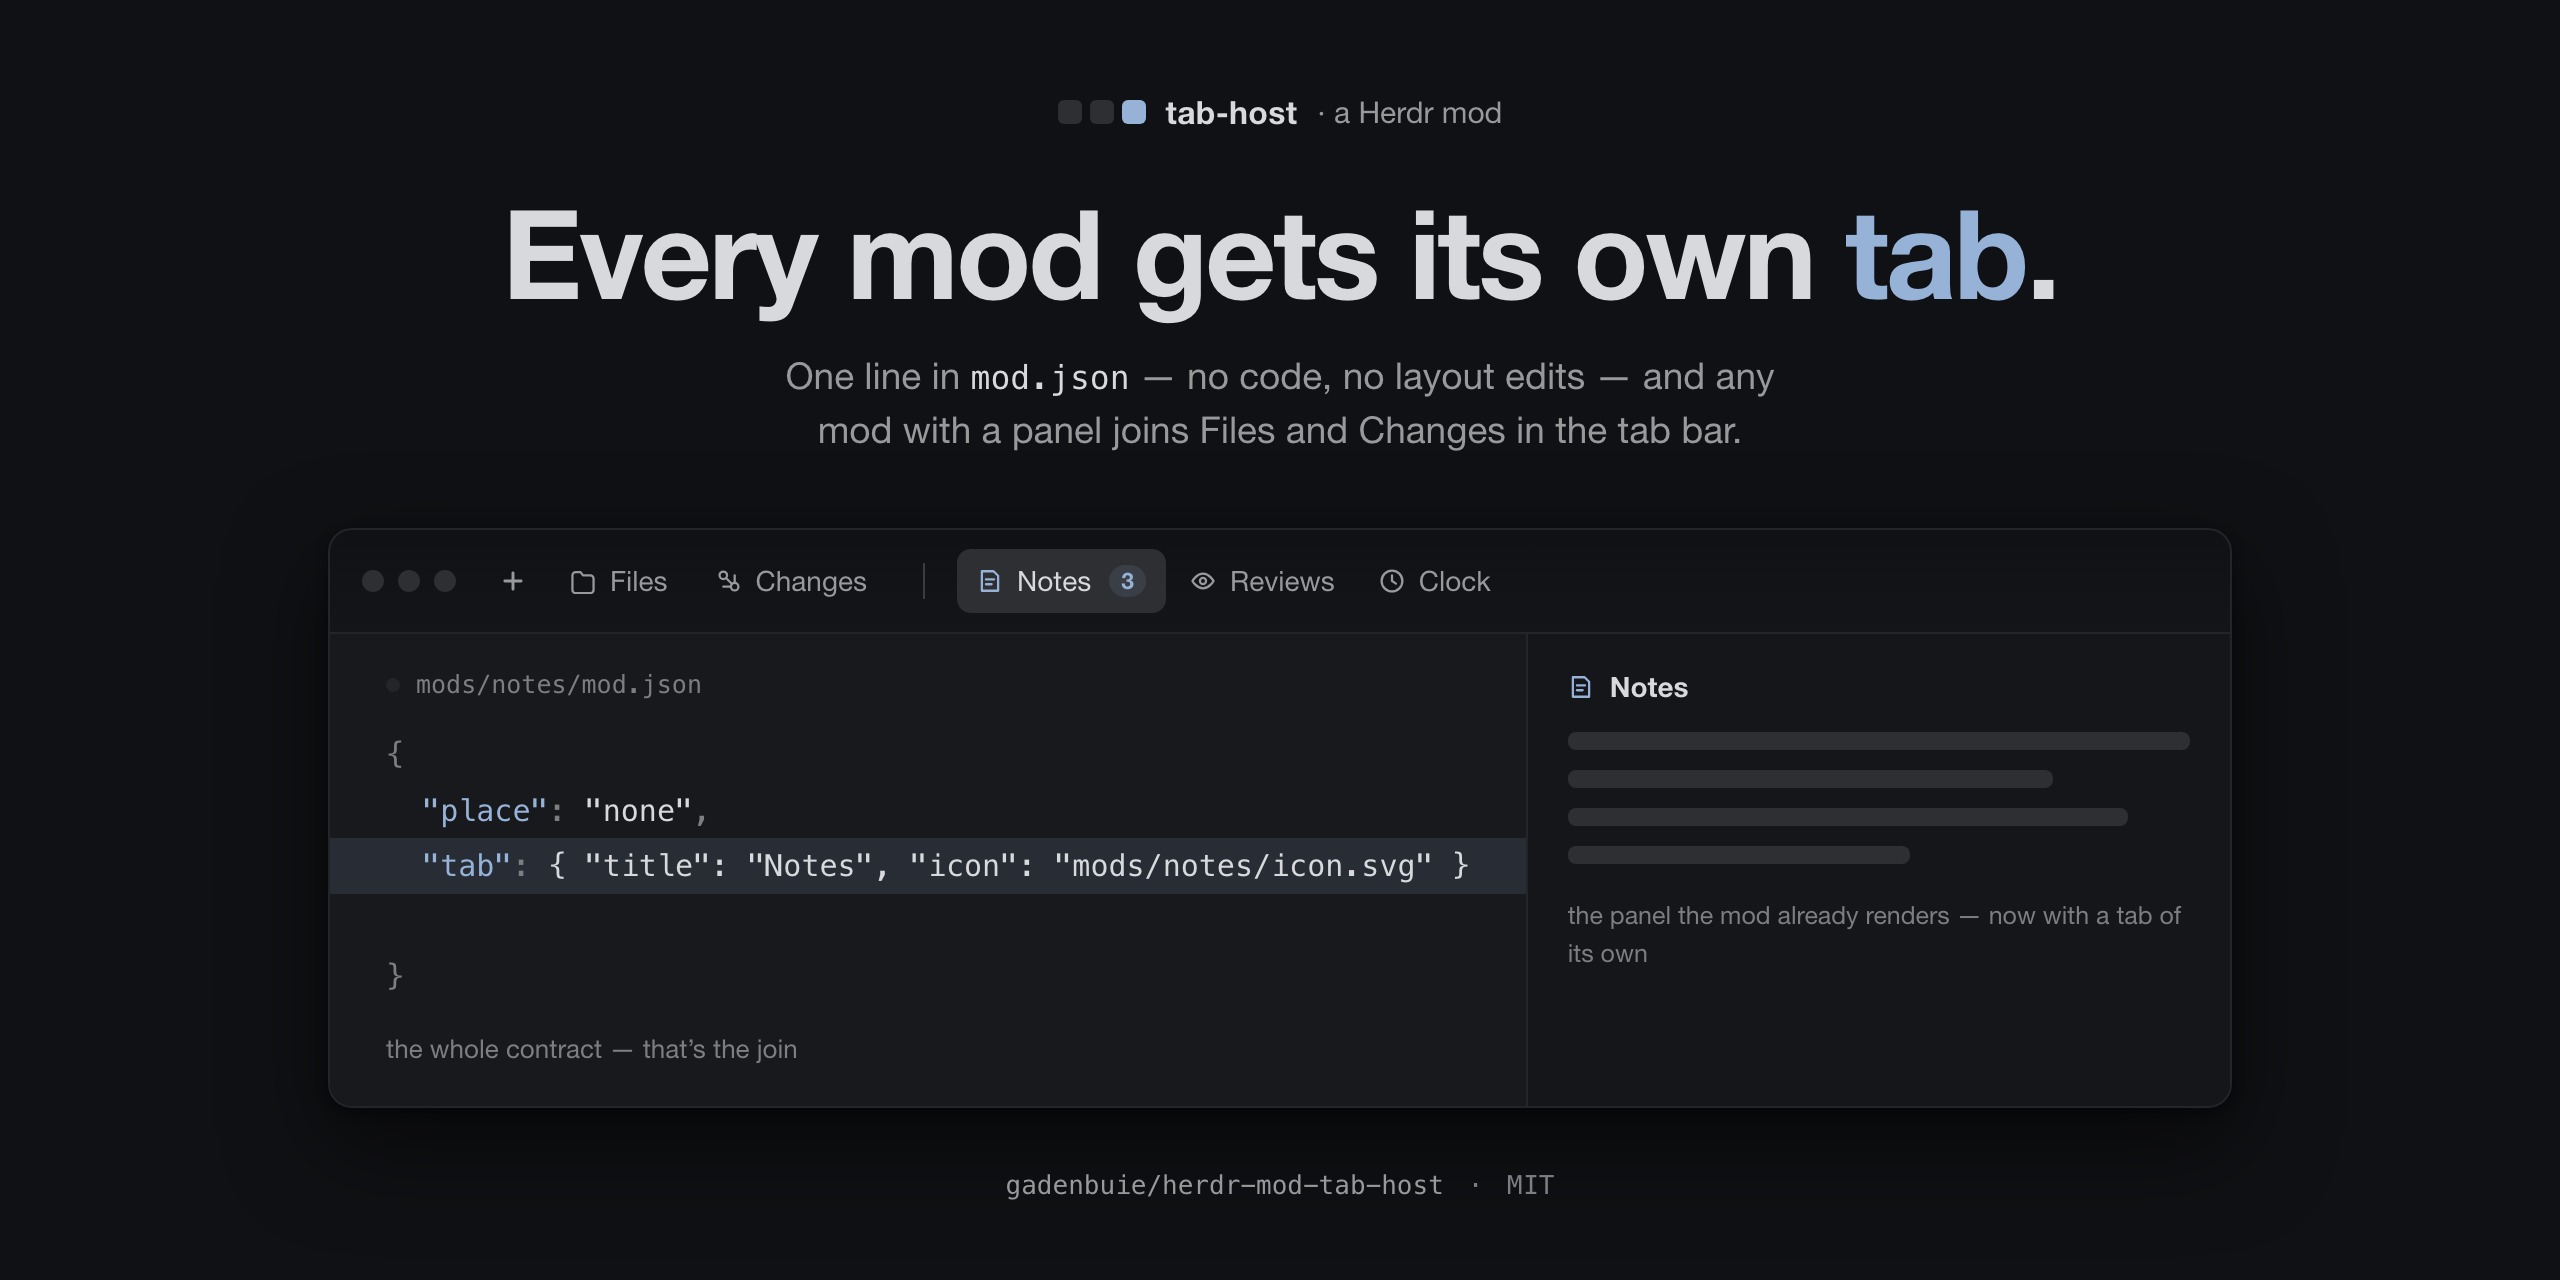
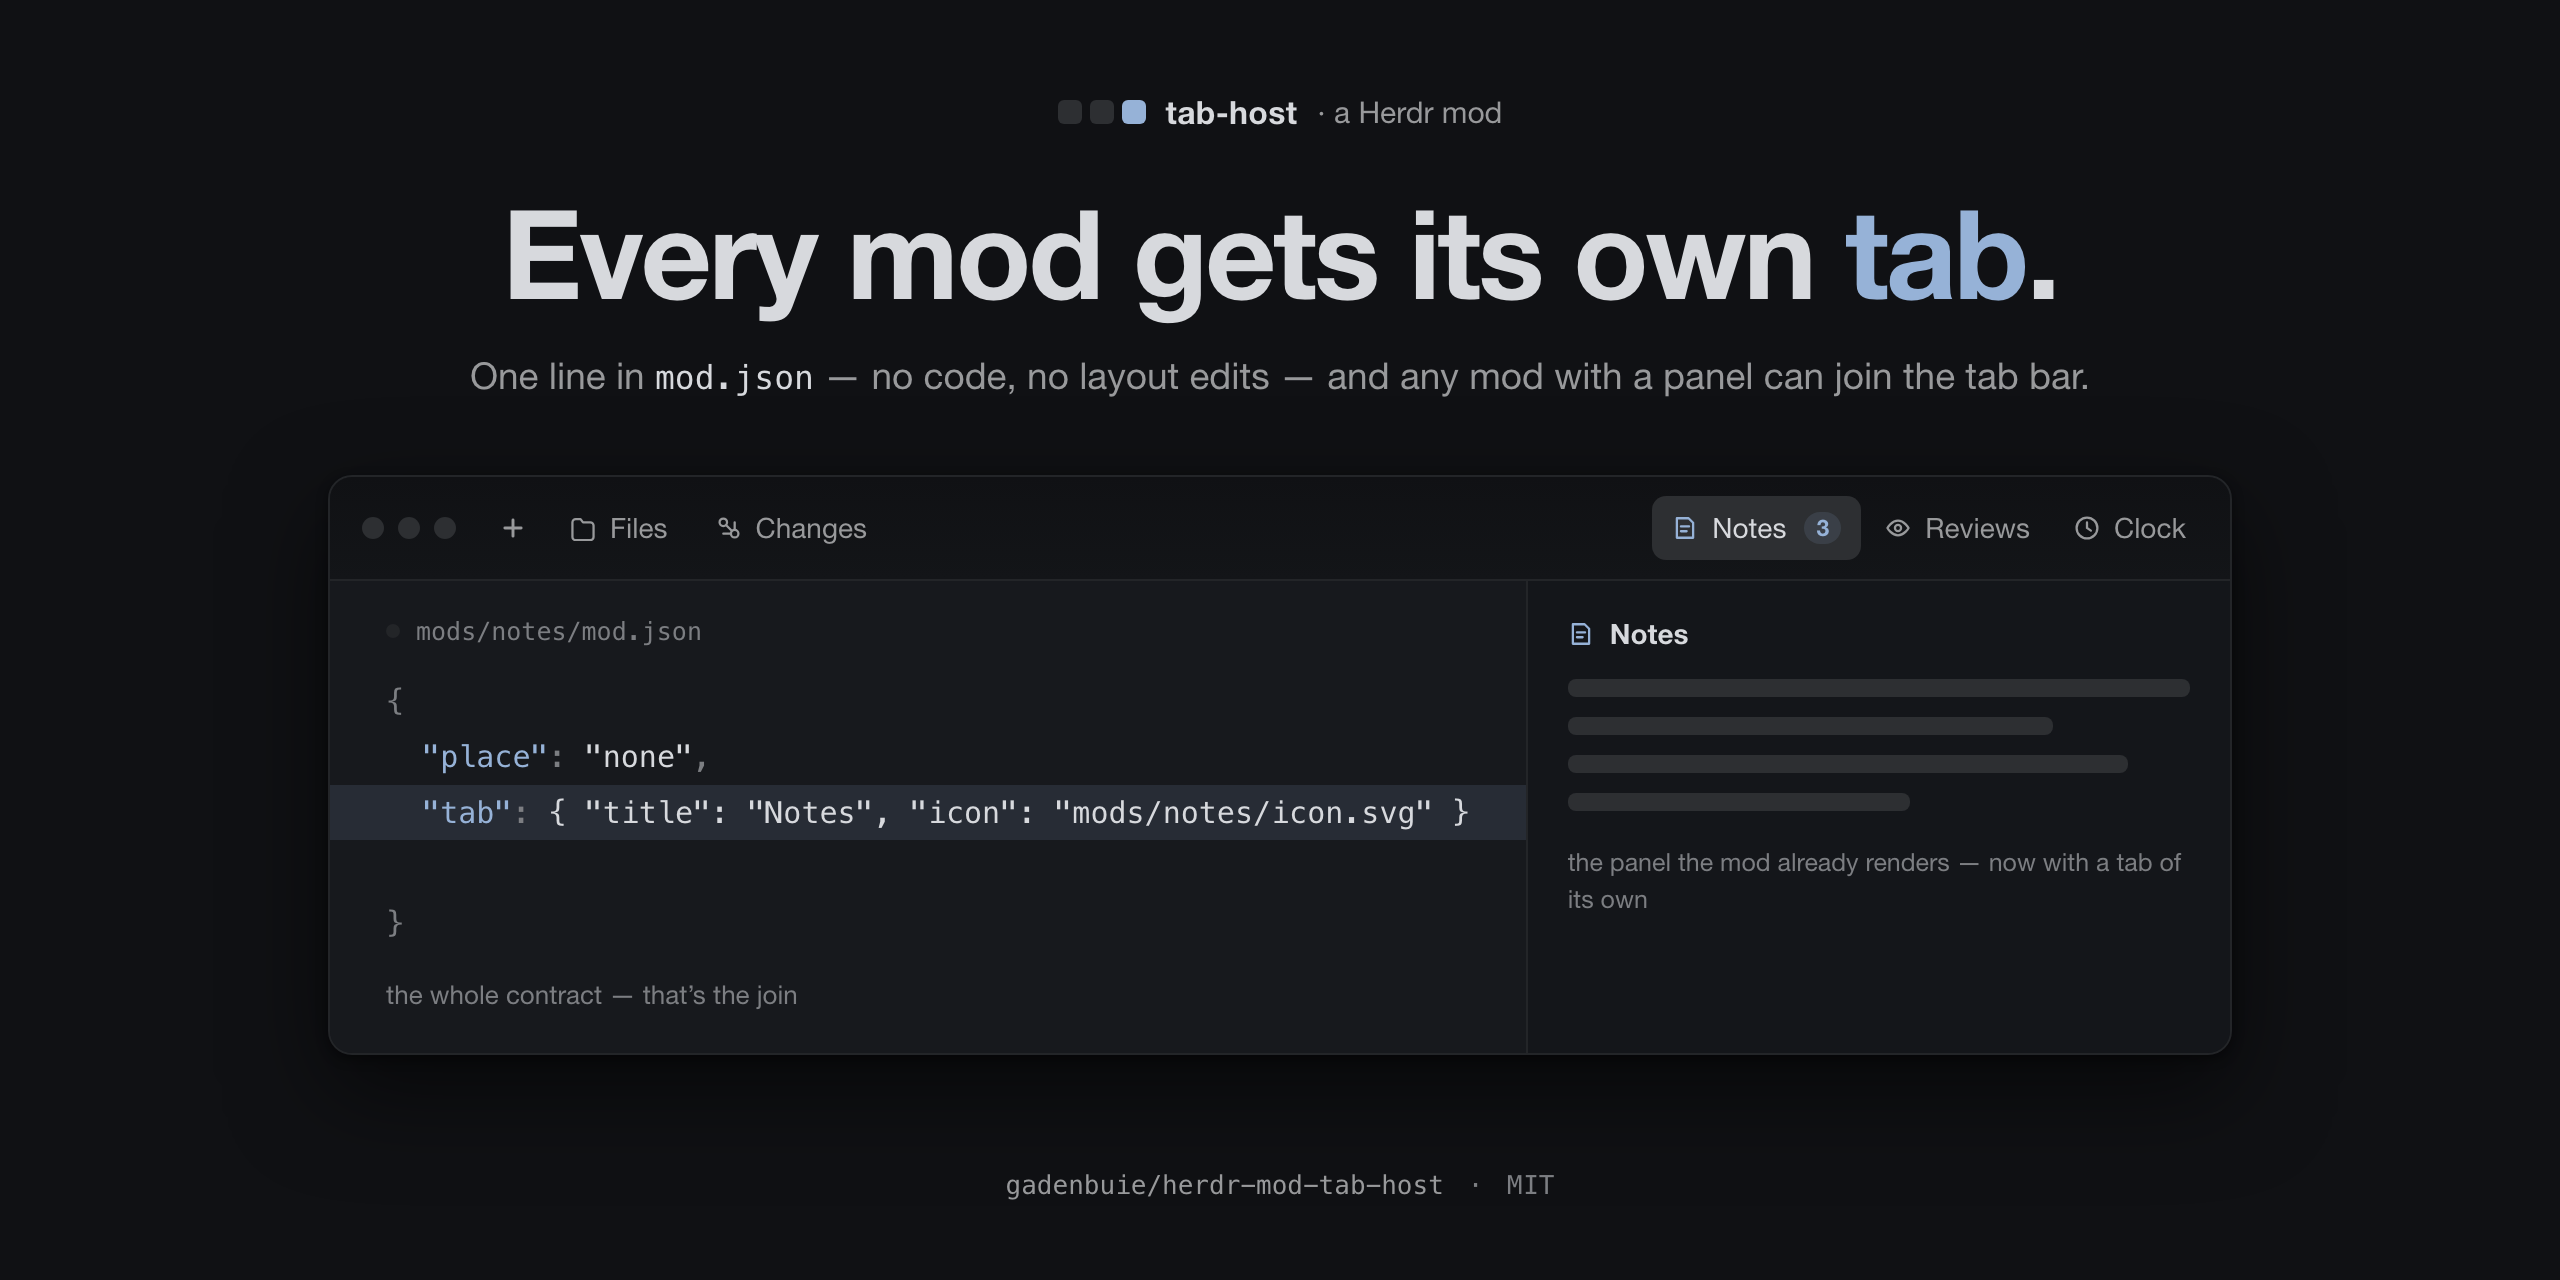
preview: buttons flush right like the real bar, no divider, the person's wording

diff --git a/assets/preview.html b/assets/preview.html
@@ -43,7 +43,7 @@
   h1 .tab { color: var(--accent); }
   p.pitch {
     margin-top: 16px;
-    max-width: 900px;
+    max-width: 840px;
     font-size: 18.5px;
     line-height: 1.45;
     color: var(--muted);
@@ -87,8 +87,7 @@
   .tb.active { background: var(--chip); color: var(--fg); }
   .tb.active .glyph { color: var(--accent); }
   .tb.shipped { margin-right: 2px; }
-  .join-mark { display: flex; align-items: center; height: 20px; padding: 0 14px; }
-  .join-mark i { display: block; width: 1px; height: 18px; background: #3a3c40; }
+  .tb.push-right { margin-left: auto; }
   .badge {
     margin-left: 2px; padding: 1px 6px;
     border-radius: 99px;
@@ -182,7 +181,7 @@ provenance.
 <h1>Every mod gets its own <span class="tab">tab</span>.</h1>
 
 <p class="pitch">One line in <code>mod.json</code> — no code, no layout edits —
-and any mod with a panel joins Files and Changes in the tab bar.</p>
+and any mod with a panel can join the tab bar.</p>
 
 <div class="window">
   <div class="tabbar">
@@ -190,8 +189,7 @@ and any mod with a panel joins Files and Changes in the tab bar.</p>
     <div class="tb"><svg class="glyph" width="13" height="13" viewBox="0 0 16 16" fill="none"><path d="M8 3v10M3 8h10" stroke="currentColor" stroke-width="1.8" stroke-linecap="round"/></svg></div>
     <div class="tb shipped"><svg class="glyph" width="13" height="13" viewBox="0 0 16 16" fill="none"><path d="M1.5 4.5C1.5 3.4 2.4 2.5 3.5 2.5h3l1.5 2h4.5c1.1 0 2 .9 2 2v7c0 1.1-.9 2-2 2h-9c-1.1 0-2-.9-2-2v-7z" stroke="currentColor" stroke-width="1.4" stroke-linejoin="round"/></svg>Files</div>
     <div class="tb shipped"><svg class="glyph" width="13" height="13" viewBox="0 0 16 16" fill="none"><circle cx="4.5" cy="4.5" r="2.3" stroke="currentColor" stroke-width="1.4"/><circle cx="11.5" cy="11.5" r="2.3" stroke="currentColor" stroke-width="1.4"/><path d="M6.3 6.3l3.4 3.4M11.5 9.2V4.5M9.2 11.5H4.5" stroke="currentColor" stroke-width="1.4" stroke-linecap="round"/></svg>Changes</div>
-    <div class="join-mark"><i></i></div>
-    <div class="tb active"><svg class="glyph" width="13" height="13" viewBox="0 0 16 16" fill="none"><path d="M3 2h7.2L13 4.8V14H3V2z" stroke="currentColor" stroke-width="1.4" stroke-linejoin="round"/><path d="M5.5 7h5M5.5 10h3.5" stroke="currentColor" stroke-width="1.4" stroke-linecap="round"/></svg>Notes<span class="badge">3</span></div>
+    <div class="tb push-right active"><svg class="glyph" width="13" height="13" viewBox="0 0 16 16" fill="none"><path d="M3 2h7.2L13 4.8V14H3V2z" stroke="currentColor" stroke-width="1.4" stroke-linejoin="round"/><path d="M5.5 7h5M5.5 10h3.5" stroke="currentColor" stroke-width="1.4" stroke-linecap="round"/></svg>Notes<span class="badge">3</span></div>
     <div class="tb"><svg class="glyph" width="13" height="13" viewBox="0 0 16 16" fill="none"><path d="M1.5 8s2.5-4.5 6.5-4.5S14.5 8 14.5 8 12 12.5 8 12.5 1.5 8 1.5 8z" stroke="currentColor" stroke-width="1.4" stroke-linejoin="round"/><circle cx="8" cy="8" r="1.9" stroke="currentColor" stroke-width="1.4"/></svg>Reviews</div>
     <div class="tb"><svg class="glyph" width="13" height="13" viewBox="0 0 16 16" fill="none"><circle cx="8" cy="8" r="6.4" stroke="currentColor" stroke-width="1.4"/><path d="M8 4.6V8l2.4 1.6" stroke="currentColor" stroke-width="1.4" stroke-linecap="round"/></svg>Clock</div>
   </div>
